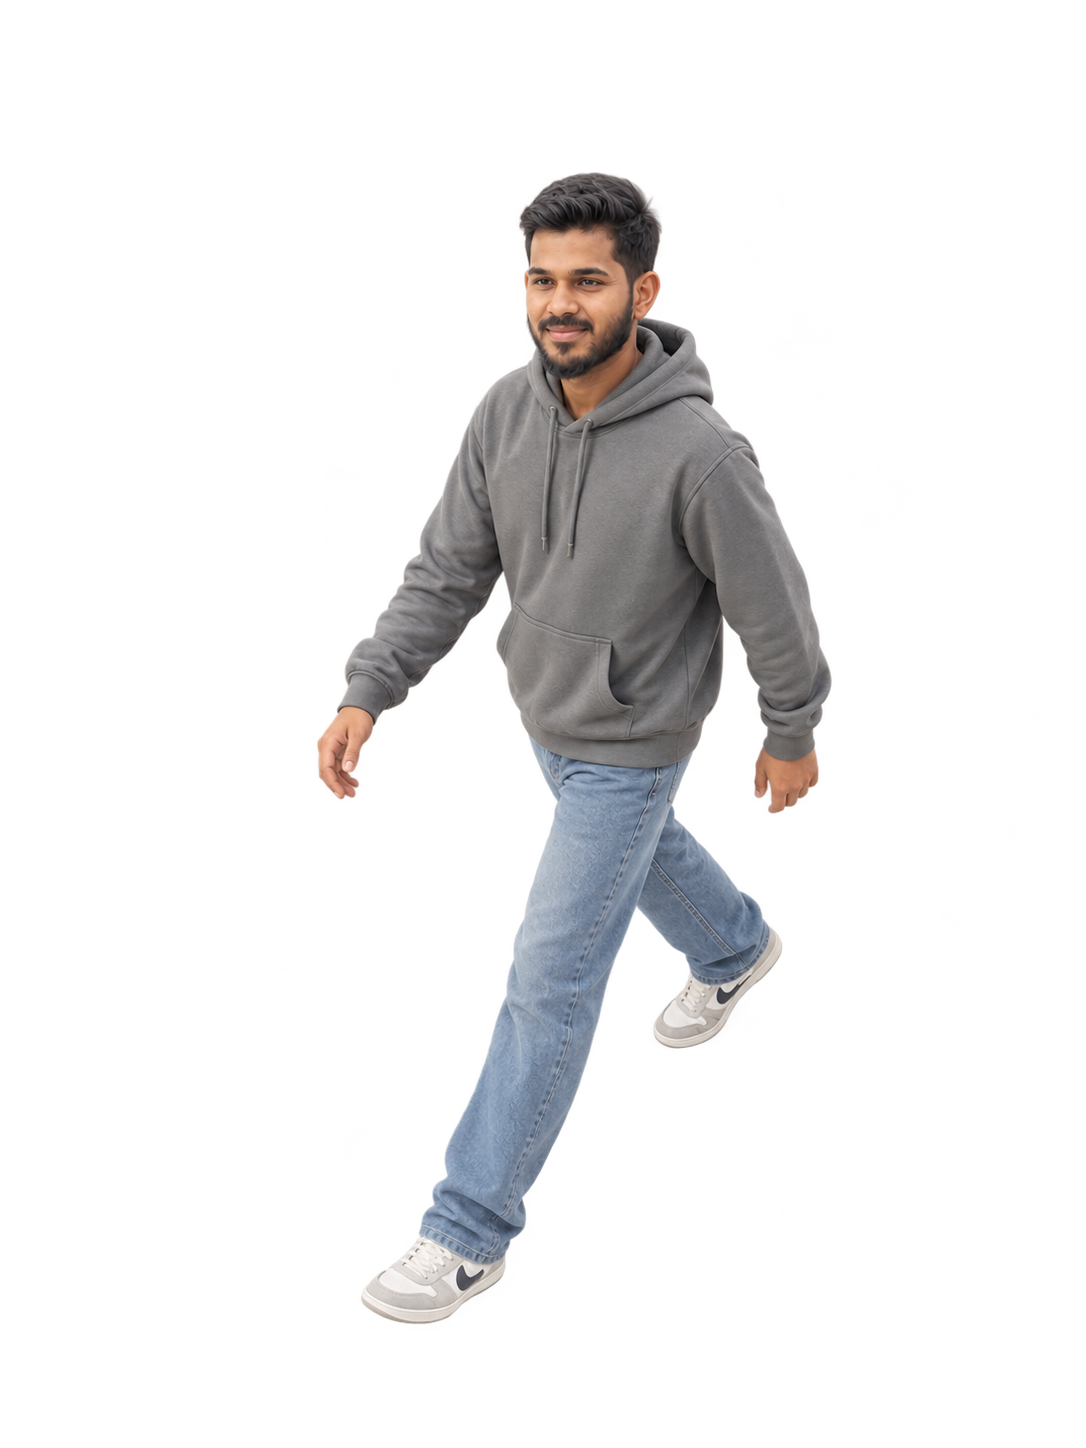
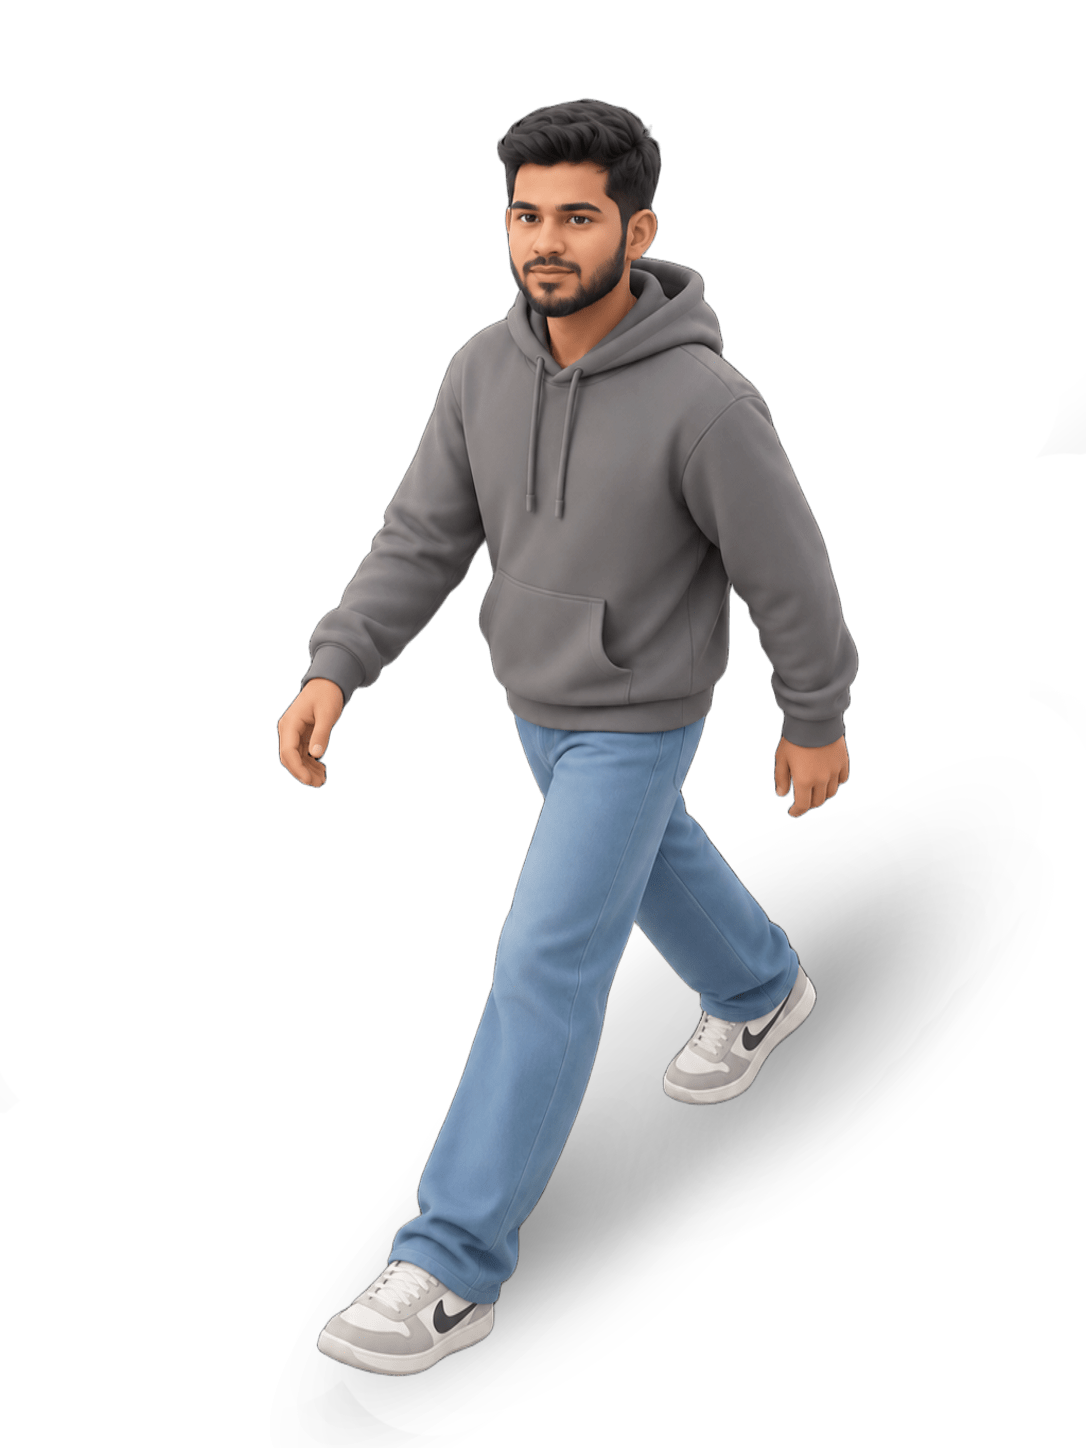
update hero img and title

Changed region(s): [[0.2431, 0.0622, 0.8812, 0.9634]]

diff --git a/web/src/components/hero.tsx b/web/src/components/hero.tsx
@@ -2,9 +2,17 @@ import mainImg from '../assets/main.png'
 
 function Hero() {
     return (
-        <div>
-            <img src={mainImg} alt="Hero" />
+        <>
+        <div className='flex justify-center'>
+            <img src={mainImg} alt="Hero" className='w-40 md:w-44 lg:w-48' />
         </div>
+
+    <div className='max-w-4xl mx-auto px-4'> 
+        <div className='max-w-xl font-mono text-center text-2xl mx-auto'>
+            I design identities, and solve your complex and creative problems </div>
+    </div>
+
+    </>    
     )
 }
 

diff --git a/web/src/components/navbar.tsx b/web/src/components/navbar.tsx
@@ -1,7 +1,7 @@
 function Navbar() {
   return (
     <nav>
-      <div className="font-nav text-center color-black text text-10xl py-20 md:py-10 text-4xl lg:py-10 text-4xl">
+      <div className="font-nav text-center color-black text text-10xl pt-14 md:pt-10 text-4xl lg:pt-10 text-4xl">
         Adnan B </div>
       
     </nav>

diff --git a/web/src/index.css b/web/src/index.css
@@ -12,6 +12,5 @@
 @layer base {
   body {
     background-color: #ecebe7;
-    font-family: var(--font-sans);
   }
 }
